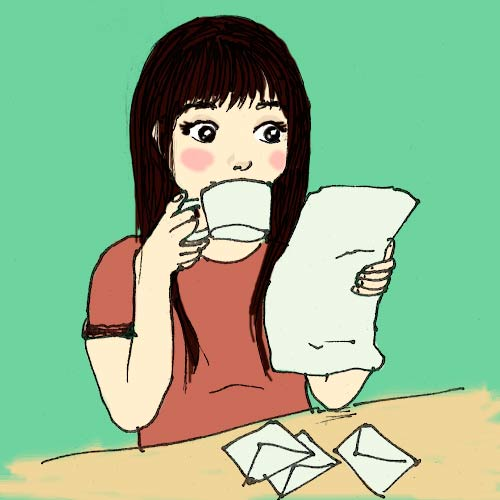
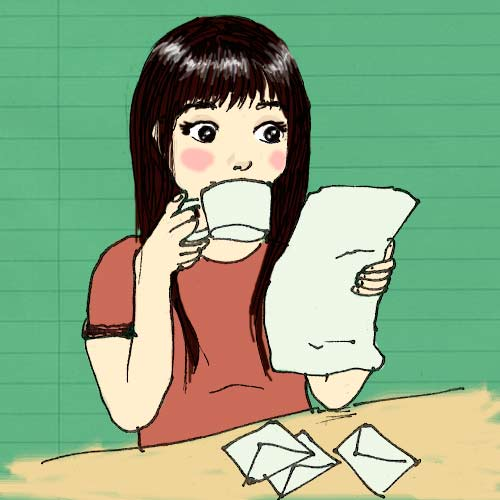
Nueva manito de gato en imagen de contacto, y se quita opacidad; primera descripción de proyecto de portafolio

diff --git a/portafolio.html b/portafolio.html
@@ -46,8 +46,8 @@
                     <a href="detalle.html">
                         <img src="images/port001.jpg" class="img-responsive" alt="">
                         <div class="descripcion-obra">
-                            <h2 class="titulo-obra">Nombre de obra</h2>
-                            <p class="extracto-obra">Lorem ipsum dolor sit amet, consectetur adipisicing elit, sed do eiusmod tempor incididunt ut labore et dolore magna aliqua. Ut enim ad minim veniam.</p>
+                            <h2 class="titulo-obra">Ilustraciones portadillas</h2>
+                            <p class="extracto-obra">Colaboración en proyecto editorial académico: directorio gráfico con secciones como directorios de imprentas, picadas, etc.</p>
                         </div><!-- /.descripcion-obra -->
                     </a>
                  </div><!-- /.col-xs-6 -->

diff --git a/contacto.html b/contacto.html
@@ -48,11 +48,6 @@
                  <div class="col-xs-12 col-lg-6 un-proyecto">
                       <iframe src="https://docs.google.com/forms/d/19TYeZn1mRVit13IUmXsCaHujtyysy9dbxWrloVT-ga0/viewform?embedded=true" width="490" height="530" frameborder="0" marginheight="0" marginwidth="0">Cargando...</iframe>
                  </div><!-- /.col-xs-6 -->
-                    <div class="col-xs-12 col-lg-6 un-proyecto">
-                     <img src="" class="img-responsive" alt="">
-                    </div><!-- /.col-xs-6 -->
-                 <div class="col-xs-12 col-lg-6 un-proyecto">
-                     <img src="" class="img-responsive" alt="">
               </section><!-- /.proyectos -->
              </div><!--.container-->
         </div><!--contenedorfondo-->
